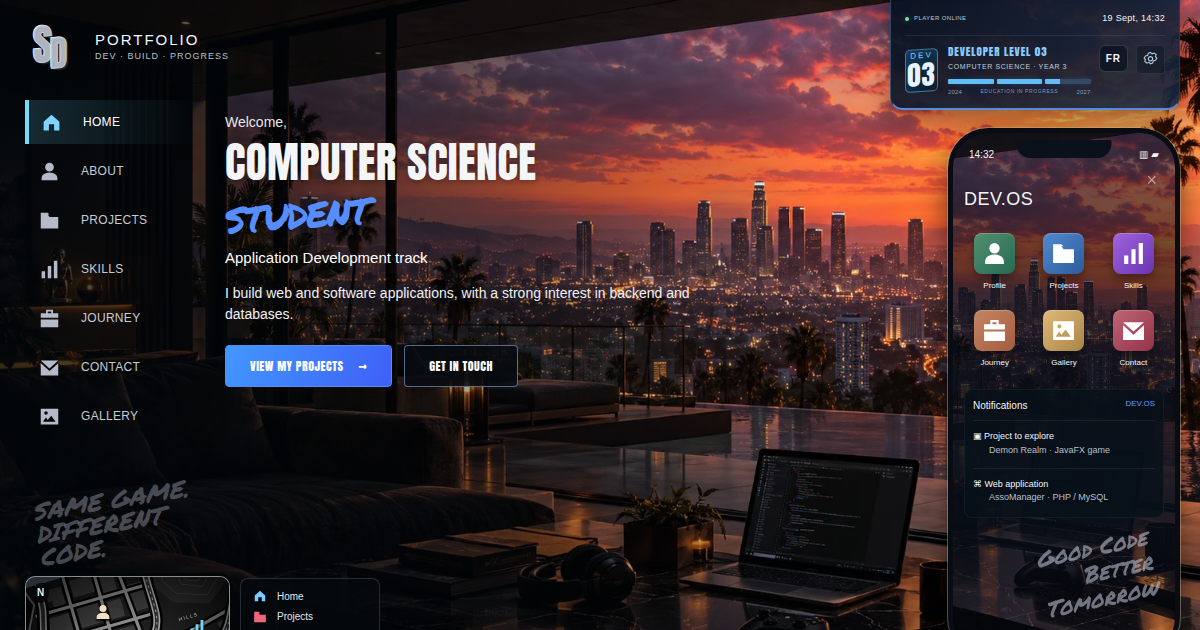
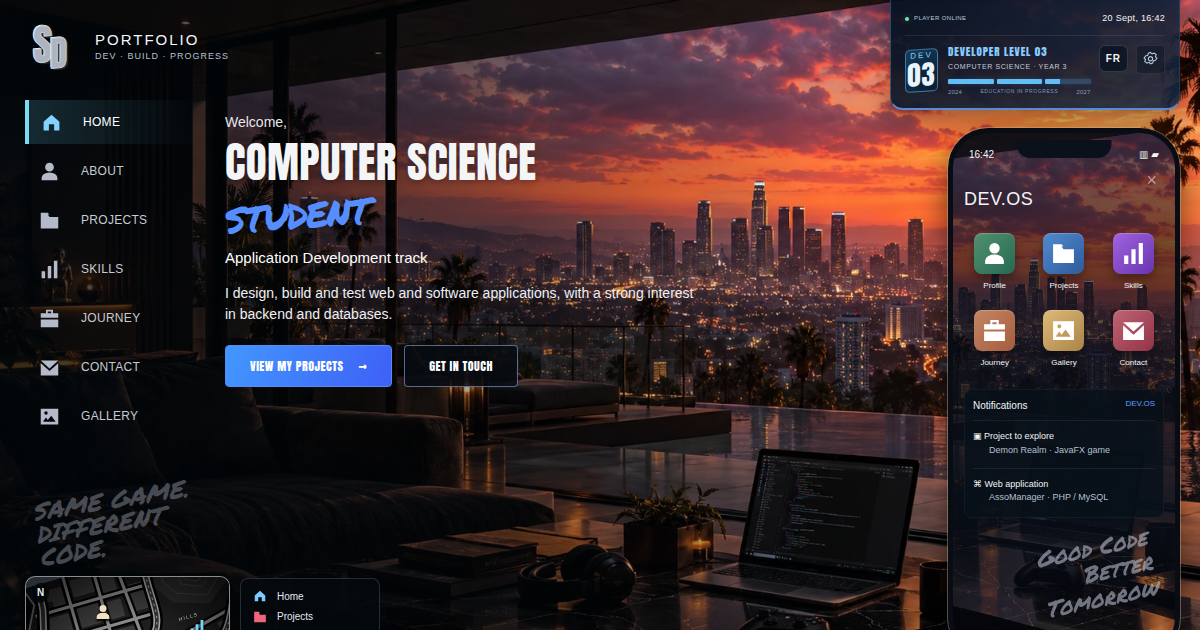
content: parcours et compétences affinés (cycle de vie logiciel)
- Nom complet du parcours : « Réalisation d'applications : conception,
  développement, validation ».
- Cadrage cycle de vie : « je conçois, développe et teste » (accueil +
  À propos), en FR et EN.
- Compétences du Parcours élargies aux acquis réels et prouvés par les
  projets : conception & développement, architecture (MVC), tests &
  validation, bases de données, travail en équipe & gestion de projet.
- Image d'aperçu régénérée (intro mise à jour).

Changed region(s): [[0.185, 0.4524, 0.5858, 0.5127]]

diff --git a/i18n.js b/i18n.js
@@ -20,11 +20,11 @@ window.I18N = {
     projectCat: { academique: 'Academic projects', personnel: 'Personal projects', 'a-preciser': 'Upcoming' },
     home: {
       welcome: 'Welcome,', h1a: 'Computer Science', h1b: 'Student', subtitle: 'Application Development track',
-      intro: 'I build web and software applications, with a strong interest in backend and databases.',
+      intro: 'I design, build and test web and software applications, with a strong interest in backend and databases.',
       discover: 'VIEW MY PROJECTS', contact: 'GET IN TOUCH',
       missionEyebrow: 'MAIN MISSION', missionTitle: 'Learn. Build. Go further.', missionText: 'Application development / Academic projects',
       aboutH2: 'About me', aboutLabel: '/// PLAYER PROFILE', aboutScene: 'More than<br>a developer.',
-      aboutP1: 'I am a Computer Science undergraduate (BUT, Application Development track). I focus on building web and software applications, with a particular interest in backend and databases.',
+      aboutP1: 'I am a Computer Science undergraduate (BUT — Application Development: design, development and validation). I design, develop and test web and software applications across their full lifecycle, with a particular interest in backend and databases.',
       aboutP2: 'Through academic and personal projects, I build functional, well-structured solutions tailored to user needs.',
       aboutLink: 'VIEW MY PROFILE →',
       factEducation: 'Education', factLocation: 'Location', factAvailability: 'Availability', factInterests: 'Interests',
@@ -32,7 +32,7 @@ window.I18N = {
       valueInterests: 'Video games', valueInterestsSub: 'Technology · Development'
     },
     profil: { index: '01 / PLAYER PROFILE', h1: 'About me.', panelH3: 'Turning ideas<br>into solutions.',
-      p1: 'I am a Computer Science undergraduate (BUT, Application Development track). I focus on building web and software applications, with a particular interest in backend and databases.',
+      p1: 'I am a Computer Science undergraduate (BUT — Application Development: design, development and validation). I design, develop and test web and software applications across their full lifecycle, with a particular interest in backend and databases.',
       p2: 'Through academic and personal projects, I build functional, well-structured solutions tailored to user needs.',
       p3: 'I am looking for an internship of 4 months or more, starting in March, to apply my skills and keep growing in a professional environment.',
       tags: ['Web development', 'Video games', 'Databases'],
@@ -44,7 +44,7 @@ window.I18N = {
       delivers: 'What it delivers', devChallenges: 'Development challenges',
       eduTag: 'EDUCATION', currentYear: '3rd YEAR', track: 'Application Development',
       years: [['2024 / 2025', 'First year'], ['2025 / 2026', 'Second year'], ['2026 / 2027', 'Third year · in progress']],
-      domains: ['Web & software development', 'Databases', 'Algorithms'],
+      domains: ['Design & development', 'Software architecture (MVC)', 'Testing & validation', 'Databases', 'Teamwork & project management'],
       practiceEyebrow: 'HANDS-ON', practiceTitle: 'Build to learn.', practiceCount: 'ACADEMIC PROJECTS',
       nextEyebrow: 'NEXT MISSION', nextTitle: 'On to real-world experience.', nextText: 'I’m looking for an internship of <strong>4 months or more, starting in March</strong>.', nextCta: 'LET’S TALK ↗' },
     contact: { index: '05 / NEXT MISSION', h1: 'Let’s talk.', intro: 'A project, an internship opportunity or simply a question? Leave me a message.',
@@ -92,11 +92,11 @@ window.I18N = {
     projectCat: { academique: 'Projets académiques', personnel: 'Projets personnels', 'a-preciser': 'À venir' },
     home: {
       welcome: 'Bienvenue,', h1a: 'Étudiant en', h1b: 'BUT Informatique', subtitle: 'Parcours Réalisation d’applications',
-      intro: 'Je conçois des applications web et logicielles, avec un intérêt marqué pour le backend et les bases de données.',
+      intro: 'Je conçois, développe et teste des applications web et logicielles, avec un intérêt marqué pour le backend et les bases de données.',
       discover: 'DÉCOUVRIR MES PROJETS', contact: 'ME CONTACTER',
       missionEyebrow: 'MISSION PRINCIPALE', missionTitle: 'Apprendre. Développer. Aller plus loin.', missionText: 'Développement d’applications / Projets académiques',
       aboutH2: 'À propos de moi', aboutLabel: '/// PLAYER PROFILE', aboutScene: 'More than<br>a developer.',
-      aboutP1: 'Je suis étudiant en BUT Informatique, parcours Réalisation d’applications. Je m’oriente vers le développement d’applications web et logicielles, avec un intérêt particulier pour le backend et les bases de données.',
+      aboutP1: 'Je suis étudiant en BUT Informatique, parcours Réalisation d’applications : conception, développement et validation. Je conçois, développe et teste des applications web et logicielles sur l’ensemble de leur cycle de vie, avec un intérêt particulier pour le backend et les bases de données.',
       aboutP2: 'À travers mes projets académiques et personnels, je développe des solutions fonctionnelles, structurées et adaptées aux besoins utilisateurs.',
       aboutLink: 'DÉCOUVRIR MON PROFIL →',
       factEducation: 'Formation', factLocation: 'Localisation', factAvailability: 'Disponibilité', factInterests: 'Centres d’intérêt',
@@ -104,7 +104,7 @@ window.I18N = {
       valueInterests: 'Jeux vidéo', valueInterestsSub: 'Technologies · Développement'
     },
     profil: { index: '01 / PLAYER PROFILE', h1: 'À propos de moi.', panelH3: 'Développer des idées,<br>créer des solutions.',
-      p1: 'Je suis étudiant en BUT Informatique, parcours Réalisation d’applications. Je m’oriente vers le développement d’applications web et logicielles, avec un intérêt particulier pour le backend et les bases de données.',
+      p1: 'Je suis étudiant en BUT Informatique, parcours Réalisation d’applications : conception, développement et validation. Je conçois, développe et teste des applications web et logicielles sur l’ensemble de leur cycle de vie, avec un intérêt particulier pour le backend et les bases de données.',
       p2: 'À travers mes projets académiques et personnels, je développe des solutions fonctionnelles, structurées et adaptées aux besoins utilisateurs.',
       p3: 'Je recherche un stage de 4 mois ou plus à partir de mars afin de mettre en pratique mes compétences et continuer à progresser en environnement professionnel.',
       tags: ['Développement web', 'Jeux vidéo', 'Bases de données'],
@@ -116,7 +116,7 @@ window.I18N = {
       delivers: 'Ce que le projet permet', devChallenges: 'Défis de développement',
       eduTag: 'FORMATION', currentYear: '3ᵉ ANNÉE', track: 'Réalisation d’applications',
       years: [['2024 / 2025', 'Première année'], ['2025 / 2026', 'Deuxième année'], ['2026 / 2027', 'Troisième année · en cours']],
-      domains: ['Développement web & logiciel', 'Bases de données', 'Algorithmique'],
+      domains: ['Conception & développement', 'Architecture logicielle (MVC)', 'Tests & validation', 'Bases de données', 'Travail en équipe & gestion de projet'],
       practiceEyebrow: 'MISE EN PRATIQUE', practiceTitle: 'Construire pour apprendre.', practiceCount: 'PROJETS ACADÉMIQUES',
       nextEyebrow: 'PROCHAINE MISSION', nextTitle: 'Passer à l’expérience terrain.', nextText: 'Je recherche un stage de <strong>4 mois ou plus à partir de mars</strong>.', nextCta: 'ÉCHANGEONS ↗' },
     contact: { index: '05 / PROCHAINE MISSION', h1: 'On en parle ?', intro: 'Un projet, une opportunité de stage ou simplement une question ? Laissez-moi un message.',

diff --git a/data.js b/data.js
@@ -20,12 +20,12 @@ window.portfolio = {
     period: '2024 — 2027',
     title: { fr: 'BUT Informatique', en: 'BSc in Computer Science (BUT)' },
     description: {
-      fr: 'Parcours Réalisation d’applications. Développement web et logiciel, bases de données et algorithmique.',
-      en: 'Application Development track. Web & software development, databases and algorithms.'
+      fr: 'Parcours Réalisation d’applications : conception, développement et validation. Développement web et logiciel, bases de données et travail en équipe (SAÉ).',
+      en: 'Application Development track: design, development and validation. Web & software development, databases and project-based teamwork (SAÉ).'
     },
     tags: {
-      fr: ['Développement', 'Bases de données', 'Travail en équipe'],
-      en: ['Development', 'Databases', 'Teamwork']
+      fr: ['Conception & développement', 'Tests & validation', 'Gestion de projet'],
+      en: ['Design & development', 'Testing & validation', 'Project management']
     }
   },
   projects: [
